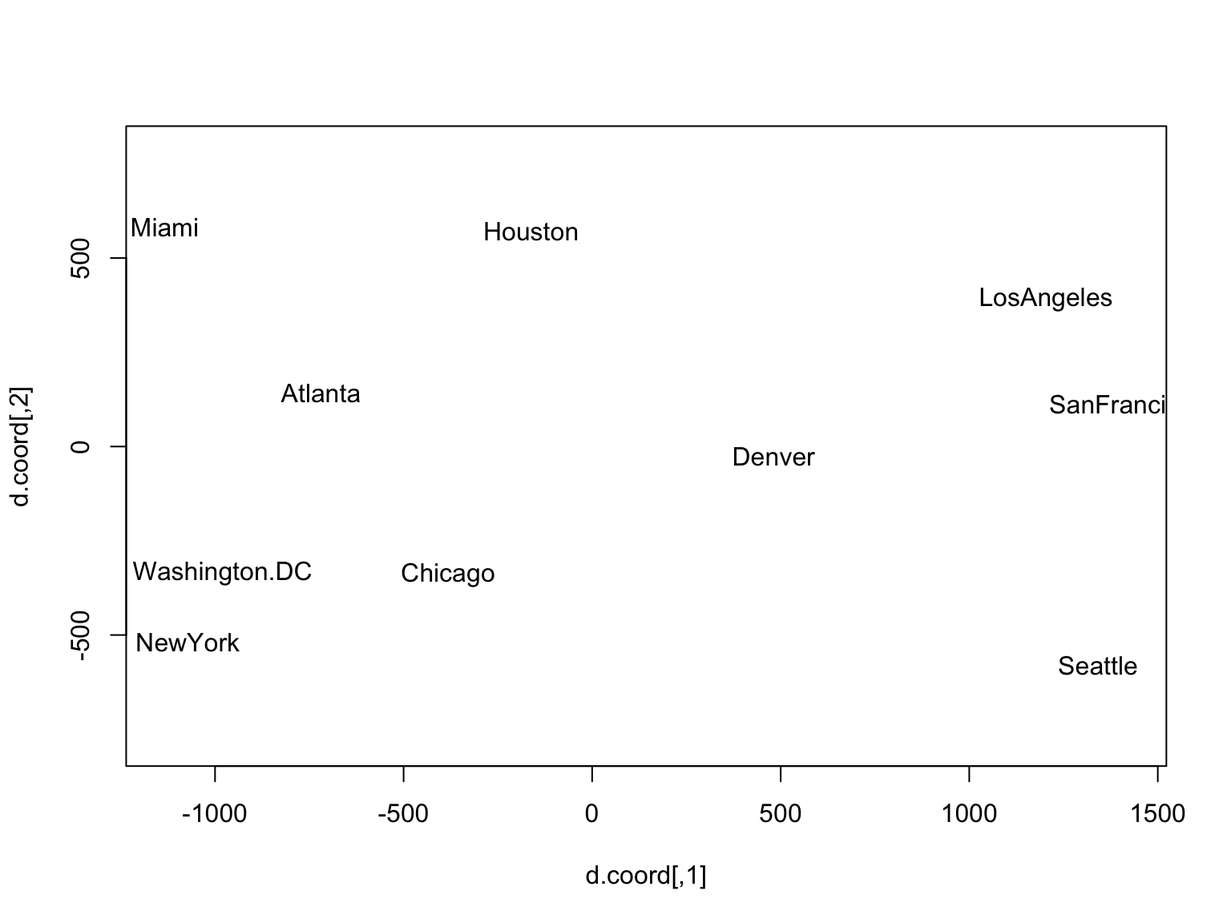
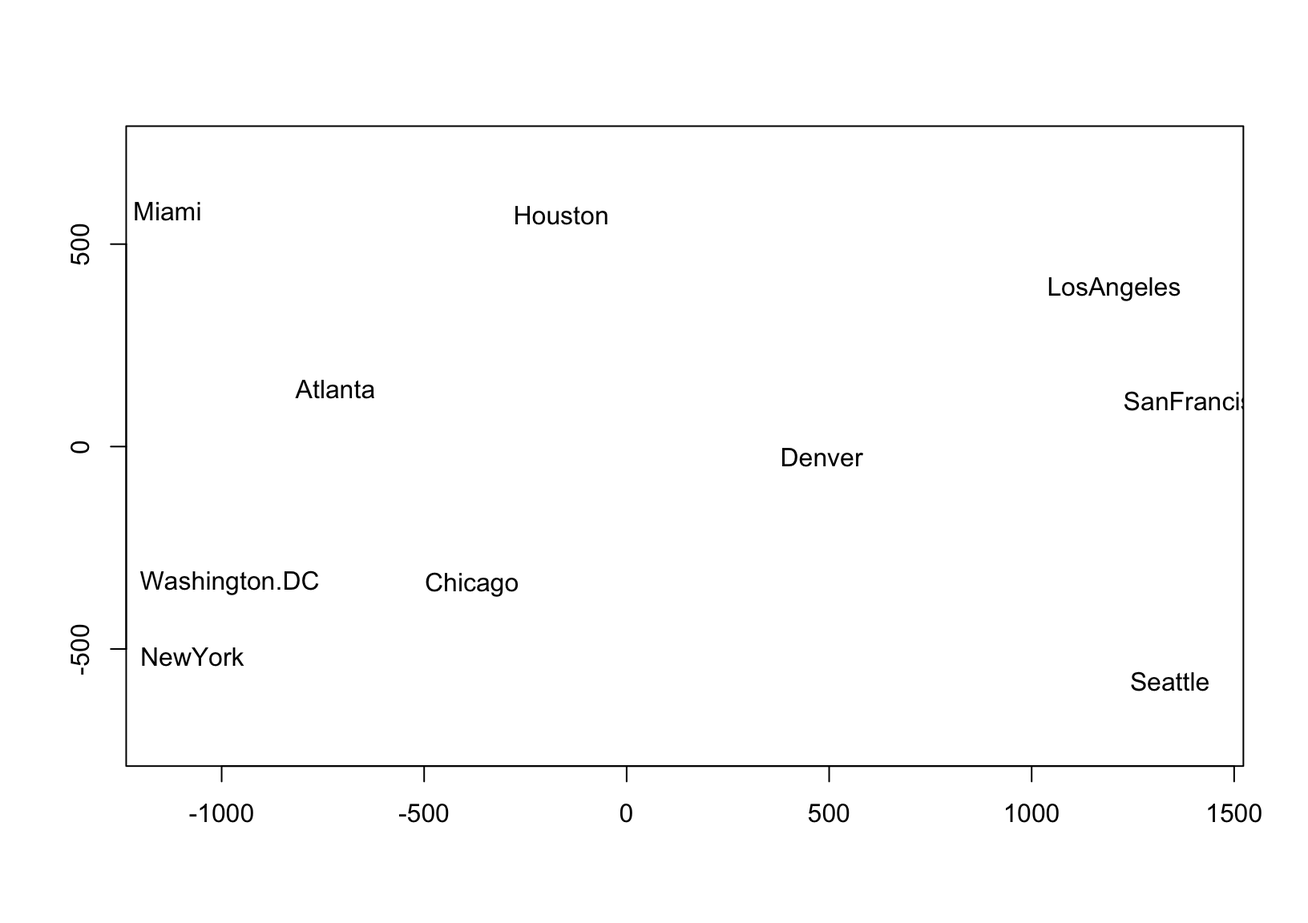
complete draft rank correlations post

diff --git a/content/post/2019-07-12-rank-correlations.html b/content/post/2019-07-12-rank-correlations.html
@@ -1,6 +1,6 @@
 ---
 draft: true
-title: multidimensional scaling and rank correlations
+title: multidimensional scaling of variables and rank correlations
 author: ~
 date: 2019-06-12
 slug: rank-correlations
@@ -46,8 +46,8 @@ plot(
   ylab = &quot;Case distances in two principal coordinates&quot;
 )</code></pre>
 <p><img src="/post/2019-07-12-rank-correlations_files/figure-html/case%20geometry-1.png" width="528" /></p>
-<p>Meanwhile, the geometry of the variables is usually understood through their covariances or correlations. The covariance between two variables <span class="math inline">\(i,j\)</span> is proportional to their inner product <span class="math display">\[\textstyle c_{ij}=\frac{1}{n}v_i\cdot v_j=\frac{1}{n}\lVert v_i\rVert\lVert v_j\rVert\cos\theta_{ij}\text,\]</span> so that the cosine the angle <span class="math inline">\(\theta_{ij}\)</span> between them equals their correlation:
-<span class="math display">\[\cos\theta_{ij}=\frac{c_{ij}}{\sqrt{c_{ii}c_{jj}}/n}=\frac{c_{ij}}{\sigma_i\sigma_j}=r_{ij}\]</span>
+<p>Meanwhile, the geometry of the variables is usually understood through their covariances or correlations. The covariance between two variables <span class="math inline">\(i,j\)</span> is proportional to their inner product <span class="math display">\[\textstyle \operatorname{cov}_{ij}=\frac{1}{n}v_i\cdot v_j=\frac{1}{n}\lVert v_i\rVert\lVert v_j\rVert\cos\theta_{ij}\text,\]</span> so that the cosine the angle <span class="math inline">\(\theta_{ij}\)</span> between them equals their correlation:
+<span class="math display">\[\cos\theta_{ij}=\frac{\operatorname{cov}_{ij}}{\sqrt{\operatorname{cov}_{ii}\operatorname{cov}_{jj}}/n}=\frac{\operatorname{cov}_{ij}}{\sigma_i\sigma_j}=r_{ij}\]</span>
 Here the cosines between the variable vectors in the first two PCA dimensions are plotted against their correlations across the original cases:</p>
 <pre class="r"><code># correlations between variables
 x.cor &lt;- cor(x)
@@ -64,20 +64,18 @@ plot(
   ylab = &quot;Cosines between variable vectors in two principal coordinates&quot;
 )</code></pre>
 <p><img src="/post/2019-07-12-rank-correlations_files/figure-html/variable%20geometry-1.png" width="528" /></p>
-<pre class="r"><code>warning(&quot;COVARIANCES&quot;)</code></pre>
-<pre><code>## Warning: COVARIANCES</code></pre>
-<div id="multidimensional-scaling-of-variables" class="section level3">
-<h3>multidimensional scaling of variables</h3>
-<p>The faithful approximation of inter-case distances by principal coordinates is the idea behind <a href="https://en.wikipedia.org/wiki/Multidimensional_scaling">(classical)</a> <em>multidimensional scaling</em>, which can be applied to a data set of distances <span class="math inline">\(\delta_{ij},\ 1\leq i,j\leq n\)</span> in the absence of coordinates. This technique is based on the eigendecomposition of a doubly-centered matrix of squared distances, which produces matrix <span class="math inline">\(UD^{1/2}\)</span> whose first <span class="math inline">\(r\)</span> coordinates—for any <span class="math inline">\(r\leq n\)</span>—recover a best approximation of the inter-case Euclidean distances in terms of the sum of squared errors, i.e. the variance of <span class="math inline">\((UD^{1/2})(UD^{1/2})^\top-\Delta=UDU^\top-\Delta\)</span>, where <span class="math inline">\(\Delta=(\delta_{ij})\in\mathbb{R}^{n\times n}\)</span>. In practice, the goal is usually to position points representing the <span class="math inline">\(n\)</span> cases in a 2-dimensional scatterplot so that their Euclidean distances <span class="math inline">\(\sqrt{(x_j-x_i)^2+(y_j-y_i)^2}\)</span> approximate their original distances <span class="math inline">\(\delta_{ij}\)</span>, as in this example using road distances to approximate geographic positions:</p>
+<div id="multidimensional-scaling-of-variables" class="section level2">
+<h2>multidimensional scaling of variables</h2>
+<p>The faithful approximation of inter-case distances by principal coordinates is the idea behind <a href="https://en.wikipedia.org/wiki/Multidimensional_scaling">(classical)</a> <em>multidimensional scaling</em> (MDS), which can be applied to a data set of distances <span class="math inline">\(\delta_{ij},\ 1\leq i,j\leq n\)</span> in the absence of coordinates. This technique is based on the eigendecomposition of a doubly-centered matrix of squared distances, which produces matrix <span class="math inline">\(UD^{1/2}\)</span> whose first <span class="math inline">\(r\)</span> coordinates—for any <span class="math inline">\(r\leq n\)</span>—recover a best approximation of the inter-case Euclidean distances in terms of the sum of squared errors, i.e. the variance of <span class="math inline">\((UD^{1/2})(UD^{1/2})^\top-\Delta=UDU^\top-\Delta\)</span>, where <span class="math inline">\(\Delta=(\delta_{ij})\in\mathbb{R}^{n\times n}\)</span>. In practice, the goal is usually to position points representing the <span class="math inline">\(n\)</span> cases in a 2-dimensional scatterplot so that their Euclidean distances <span class="math inline">\(\sqrt{(x_j-x_i)^2+(y_j-y_i)^2}\)</span> approximate their original distances <span class="math inline">\(\delta_{ij}\)</span>, as in this example using road distances to approximate geographic positions:</p>
 <pre class="r"><code>d &lt;- as.matrix(UScitiesD)
 cent &lt;- diag(1, nrow(d)) - matrix(1/nrow(d), nrow(d), nrow(d))
 d.cent &lt;- -.5 * cent %*% (d^2) %*% cent
 d.mds &lt;- svd(d.cent)
 d.coord &lt;- d.mds$u[, 1:2] %*% diag(sqrt(d.mds$d[1:2]))
-plot(d.coord, pch = NA, asp = 1)
+plot(d.coord, pch = NA, asp = 1, xlab = &quot;&quot;, ylab = &quot;&quot;)
 text(d.coord, labels = rownames(d))</code></pre>
-<p><img src="/post/2019-07-12-rank-correlations_files/figure-html/multidimensional%20scaling-1.png" width="768" /></p>
-<p>The faithful approximation of inter-variable covariances by the inner products of their principal-coordinate vectors suggests a complementary technique that i haven’t found explicitly discussed in my own background reading. Suppose we have data that is again coordinate-free but that consists this time not of distances between the cases but of covariances <span class="math inline">\(c_{ij},\ 1\leq i,j\leq m\)</span> between the variables. Had the original data been a <em>centered</em> case–variable matrix <span class="math inline">\(X\)</span>, then the covariances would been obtained as <span class="math inline">\(C=\frac{1}{n}X^\top X\)</span>, which is (up to scalar) the matrix whose eigenvectors would be given by <span class="math inline">\(V\)</span> in the SVD <span class="math inline">\(X=UDV^\top\)</span>. Therefore, we can fabricate coordinates for the <span class="math inline">\(m\)</span> variables that approximate what we know of their geometry—in this case, thinking of the variables as vectors, their magnitudes and the angles between them—via an eigendecomposition <span class="math inline">\(C=V\Lambda V^\top\)</span>: Take <span class="math inline">\(Y=V\Lambda^{1/2}\in\mathbb{R}^{m\times r}\)</span>, so that <span class="math inline">\(Y^\top Y=C\)</span>. We can also obtain coordinates in fewer dimensions that best recover the geometry using the first eigenvectors and -values.</p>
+<p><img src="/post/2019-07-12-rank-correlations_files/figure-html/multidimensional%20scaling-1.png" width="816" /></p>
+<p>The faithful approximation of inter-variable covariances by the inner products of their principal-coordinate vectors suggests a complementary technique that i haven’t found explicitly discussed in my own background reading. Suppose we have data that is again coordinate-free but that consists this time not of distances between the cases but of covariances <span class="math inline">\(\operatorname{cov}_{ij},\ 1\leq i,j\leq m\)</span> between the variables. Had the original data been a <em>centered</em> case–variable matrix <span class="math inline">\(X\)</span>, then the covariance matrix <span class="math inline">\(C=(\operatorname{cov}_{ij})\)</span> would been obtained as <span class="math inline">\(C=\frac{1}{n}X^\top X\)</span>, which is (up to scalar) the matrix whose eigenvectors would be given by <span class="math inline">\(V\)</span> in the SVD <span class="math inline">\(X=UDV^\top\)</span>. Therefore, we can fabricate coordinates for the <span class="math inline">\(m\)</span> variables that approximate what we know of their geometry—in this case, thinking of the variables as vectors, their magnitudes and the angles between them—via an eigendecomposition <span class="math inline">\(C=V\Lambda V^\top\)</span>: Take <span class="math inline">\(Y=V\Lambda^{1/2}\in\mathbb{R}^{m\times r}\)</span>, so that <span class="math inline">\(Y^\top Y=C\)</span>. We can also obtain coordinates in fewer dimensions that best recover the geometry using the first eigenvectors and -values.</p>
 <p>I’ll validate this line of reasoning by taking the <code>mtcars</code> data set for a spin:</p>
 <pre class="r"><code># covariances and standard deviations
 c &lt;- cov(mtcars)
@@ -95,11 +93,12 @@ all.equal(
   tolerance = 1e-12
 )</code></pre>
 <pre><code>## [1] TRUE</code></pre>
-<p>The use case for this technique is a situation in which covariance data exist without variable values. This may of course be the case because original data has become unavailable; but a more interesting setting that gives rise to this situation is the analysis of multiple rankings of the same set of objects in terms of their <em>concordance</em>. Rankings’ concordance is often measured using rank correlations such as Kendall’s tau, which may be <em>general correlation coefficients</em> in <a href="https://en.wikipedia.org/wiki/Rank_correlation#General_correlation_coefficient">the sense proposed by Kendall</a> but are not associated with an underlying (Euclidean) geometry. Nevertheless, we can use multidimensional scaling to represent these rankings as unit vectors in Euclidean space whose pairwise cosines approximate their rank correlations!</p>
+<p>Thus, whereas <em>MDS of cases</em> is used to represent distances, <em>MDS of variables</em> can be used to represent covariances.
+The use case for this technique is a situation in which covariance data exist without variable values. This may of course be the case because original data has become unavailable; but a more interesting setting that gives rise to this situation is the analysis of multiple rankings of the same set of objects in terms of their <em>concordance</em>. Rankings’ concordance is often measured using rank correlations such as Kendall’s tau, which may be <em>general correlation coefficients</em> in <a href="https://en.wikipedia.org/wiki/Rank_correlation#General_correlation_coefficient">the sense proposed by Kendall</a> but are not associated with an underlying (Euclidean) geometry. Nevertheless, we can use MDS to represent these rankings as unit vectors in Euclidean space whose pairwise cosines approximate their rank correlations!</p>
 </div>
-<div id="rankings-of-universities" class="section level3">
-<h3>rankings of universities</h3>
-<p>A real-world example is provided by the <a href="https://www.topuniversities.com/qs-world-university-rankings/methodology">Quacquarelli Symonds Top University Rankings</a>, which include rankings of hundreds of world universities along six dimensions: academic reputation, employer reputation, faculty–student ratio, citations per faculty, international faculty ratio, and international student ratio. QS weight these rankings differently in their overall assessment, but our analysis will compare the rankings to each other, so these weights are ignored. I restricted the data from the year 2020 to universities in the United States for which integer rankings (i.e. not “400+” placeholders) were available in all four years:<a href="#fn2" class="footnote-ref" id="fnref2"><sup>2</sup></a></p>
+<div id="example-rankings-of-universities" class="section level2">
+<h2>example: rankings of universities</h2>
+<p>A real-world example is provided by the <a href="https://www.topuniversities.com/qs-world-university-rankings/methodology">Quacquarelli Symonds Top University Rankings</a>, which include rankings of hundreds of world universities on six “metrics”: academic reputation, employer reputation, faculty–student ratio, citations per faculty, international faculty ratio, and international student ratio. QS weight these rankings differently in their overall assessment, but our analysis will compare the rankings to each other, so these weights are ignored. I restricted the data from the year 2020 to universities in the United States for which integer rankings (i.e. not “400+” placeholders) were available in all four years:<a href="#fn2" class="footnote-ref" id="fnref2"><sup>2</sup></a></p>
 <pre class="r"><code>qswurus20 &lt;- readRDS(here::here(&quot;sandbox/qswurus20.rds&quot;))
 head(qswurus20)</code></pre>
 <pre><code>##   year                                  institution size focus res age
@@ -126,58 +125,112 @@ head(qswurus20)</code></pre>
 <p>Since the integer rankings were taken from the full data set, they are not contiguous (i.e. some integers between rankings never appear). To resolve this, i’ll recalibrate the rankings by matching each vector of ranks to the vector of its sorted unique values:</p>
 <pre class="r"><code>library(dplyr)
 qswurus20 %&gt;%
-  group_by(year) %&gt;%
+  select(institution, starts_with(&quot;rk_&quot;)) %&gt;%
   mutate_at(
     vars(starts_with(&quot;rk_&quot;)),
     ~ match(., sort(unique(as.numeric(.))))
   ) %&gt;%
-  ungroup() %&gt;%
   print() -&gt; qswurus20</code></pre>
-<pre><code>## # A tibble: 38 x 13
-##     year institution size  focus res     age status rk_academic rk_employer
-##    &lt;int&gt; &lt;chr&gt;       &lt;chr&gt; &lt;chr&gt; &lt;chr&gt; &lt;dbl&gt; &lt;chr&gt;        &lt;int&gt;       &lt;int&gt;
-##  1  2020 MASSACHUSE… M     CO    VH        5 B                3           2
-##  2  2020 STANFORD U… L     FC    VH        5 B                2           3
-##  3  2020 HARVARD UN… L     FC    VH        5 B                1           1
-##  4  2020 CALIFORNIA… S     CO    VH        5 B               12          14
-##  5  2020 UNIVERSITY… L     FC    VH        5 B                9          11
-##  6  2020 PRINCETON … M     CO    VH        5 B                7           7
-##  7  2020 CORNELL UN… L     FC    VH        5 B               11          13
-##  8  2020 UNIVERSITY… L     FC    VH        5 B               14          12
-##  9  2020 YALE UNIVE… L     FC    VH        5 B                6           4
-## 10  2020 COLUMBIA U… L     FC    VH        5 B                8           8
-## # … with 28 more rows, and 4 more variables: rk_ratio &lt;int&gt;,
-## #   rk_citations &lt;int&gt;, rk_intl_faculty &lt;int&gt;, rk_intl_students &lt;int&gt;</code></pre>
-<p>This subset of universities is now ranked in a consistent way along the six dimensions described above. The Kendall correlation <span class="math inline">\(\kappa_{ij}\)</span> between two rankings measures their concordance. To calculate it, every pair of universities contributes either <span class="math inline">\(+1\)</span> or <span class="math inline">\(-1\)</span> according as the rankings <span class="math inline">\(i\)</span> and <span class="math inline">\(j\)</span> agree or disagree for that pair, and the sum is scaled down by the number of pairs <span class="math inline">\({n\choose 2}\)</span> so that the result lies between <span class="math inline">\(-1\)</span> and <span class="math inline">\(1\)</span>. We interpret <span class="math inline">\(\kappa_{ij}=1\)</span> as perfect concordance, <span class="math inline">\(\kappa_{ij}=-1\)</span> as perfect discordance (the rankings reverse each other), and <span class="math inline">\(\kappa_{ij}=0\)</span> as independence (the rankings are unrelated to each other).</p>
-<p>Since the QS rankings are not variations on a common theme, like different traditional measures of quality, i don’t have any strong expectation of how concordant they’ll be. A common way to visualize correlation matrices is the heatmap, so i’ll use that technique first:</p>
+<pre><code>## # A tibble: 38 x 7
+##    institution rk_academic rk_employer rk_ratio rk_citations
+##    &lt;chr&gt;             &lt;int&gt;       &lt;int&gt;    &lt;int&gt;        &lt;int&gt;
+##  1 MASSACHUSE…           3           2        6            3
+##  2 STANFORD U…           2           3        4            5
+##  3 HARVARD UN…           1           1       11            4
+##  4 CALIFORNIA…          12          14        1            2
+##  5 UNIVERSITY…           9          11       13           12
+##  6 PRINCETON …           7           7       18            1
+##  7 CORNELL UN…          11          13       22            7
+##  8 UNIVERSITY…          14          12        8           17
+##  9 YALE UNIVE…           6           4        2           24
+## 10 COLUMBIA U…           8           8        7           25
+## # … with 28 more rows, and 2 more variables: rk_intl_faculty &lt;int&gt;,
+## #   rk_intl_students &lt;int&gt;</code></pre>
+<p>This subset of universities is now ranked in a consistent way along the six dimensions described above. The Kendall correlation <span class="math inline">\(\kappa_{ij}\)</span> between two rankings measures their concordance. To calculate it, every pair of universities contributes either <span class="math inline">\(+1\)</span> or <span class="math inline">\(-1\)</span> according as the rankings <span class="math inline">\(i\)</span> and <span class="math inline">\(j\)</span> place that pair in the same order, and the sum is scaled down by the number of pairs <span class="math inline">\({n\choose 2}\)</span> so that the result lies between <span class="math inline">\(-1\)</span> and <span class="math inline">\(1\)</span>. We interpret <span class="math inline">\(\kappa_{ij}=1\)</span> as perfect concordance (the rankings are equivalent), <span class="math inline">\(\kappa_{ij}=-1\)</span> as perfect discordance (the rankings are reversed), and <span class="math inline">\(\kappa_{ij}=0\)</span> as independence (the rankings are unrelated).</p>
+<p>The QS rankings are not variations on a theme, like different measures of guideline adherence or positive affect, but they do all seem potentially sensitive to a universities resources, including funding and prestige. I would intuit that the two reputational metrics should be positively correlated, and that the two international ratios should be as well. I also wonder if the faculty–student ratio might be anti-correlated with the number of citations per faculty, separating research institutions from more teaching-focused ones.</p>
+<div id="correlation-heatmap" class="section level3">
+<h3>correlation heatmap</h3>
+<p>A common way to visualize correlation matrices is the heatmap, so i’ll use that technique first: While the rankings by academic and employer reputations are highly concordant, those by international faculty and student ratios are not less so; and, while the faculty–student ratio and faculty citation rankings are positively correlated, the relationship is the weakest of all.</p>
 <pre class="r"><code>c &lt;- cor(select(qswurus20, starts_with(&quot;rk_&quot;)), method = &quot;kendall&quot;)
 corrplot::corrplot(c)</code></pre>
 <p><img src="/post/2019-07-12-rank-correlations_files/figure-html/Kendall%20rank%20correlations-1.png" width="672" /></p>
+<p>This visualization is useful, but it’s very busy: To compare any pair of rankings, i have to find the cell in the grid corresponding to that pair and refer back to the color scale to assess its meaning. I can’t rely on the nearby cells for context, because they may be stronger or weaker than average and skew my interpretation. For example, the visibly weak associations between the faculty–student ratio and other rankings happen to be arranged so that the slightly stronger among them, with the two reputational variables, are sandwiched between the <em>even stronger</em> associations between the two reputational rankings and between them and the faculty citations ranking; whereas its weaker associations are sandwiched between more typical, but still comparatively stronger, associations. A different ordering of the variables might “obscure” this pattern and “reveal” others.</p>
+<p>The plot is also strictly pairwise: Every correlation between two rankings occupies its own cell—two, in fact, making almost half of the plot duplicative. This means that a subset analysis of, say, three rankings requires focusing on three cells at the corners of a right triangle while ignoring all the surrounding cells. This is not an easy visual task. It would be straightforward to create a new plot for any subset, but then the larger context of the remaining rankings would be lost.</p>
+</div>
+<div id="correlation-biplot" class="section level3">
+<h3>correlation biplot</h3>
+<p>The MDS technique offers a natural alternative visualization: the biplot. As with classical MDS, the point isn’t to overlay the case scores and variable loadings from a singular value decomposition, but to use the scores or loadings alone to endow the cases or variables with a Euclidean geometry they didn’t yet have. To that end, i’ll plot the variables as vectors with tails at the origin and heads at their fabricated coordinates <span class="math inline">\(Y=V\Lambda^{1/2}\)</span>:</p>
 <pre class="r"><code>c.eigen &lt;- eigen(c)
 c.coord &lt;- c.eigen$vectors %*% diag(sqrt(c.eigen$values))
-plot(c.coord, pch = NA, asp = 1)
+plot(c.coord, pch = NA, asp = 1, xlab = &quot;&quot;, ylab = &quot;&quot;)
 arrows(0, 0, c.coord[, 1], c.coord[, 2])
 text(c.coord, labels = rownames(c))</code></pre>
 <p><img src="/post/2019-07-12-rank-correlations_files/figure-html/multidimensional%20scaling%20of%20variables-1.png" width="672" /></p>
+<p>A more elegant ggplot2-style graphic can be rendered with <a href="https://github.com/corybrunson/ordr">ordr</a>:</p>
 <pre class="r"><code>library(ordr)
 eigen_ord(c) %&gt;%
   as_tbl_ord() %&gt;%
   augment() %&gt;%
   mutate_v(metric = stringr::str_remove(.name, &quot;rk_&quot;)) %&gt;%
-  confer_inertia(.5) %&gt;%
+  confer_inertia(c(0, 1)) %&gt;%
+  negate_to_nonneg_orthant(&quot;v&quot;) -&gt;
+  c_eigen
+c_eigen %&gt;%
   ggbiplot() +
-  geom_unit_circle(linetype = &quot;dashed&quot;) +
+  theme_minimal() +
+  geom_unit_circle() +
   geom_v_vector() +
   geom_v_text_radiate(aes(label = metric)) +
   scale_x_continuous(expand = expand_scale(add = .4)) +
   scale_y_continuous(expand = expand_scale(add = .2)) +
   ggtitle(&quot;MDS of Kendall correlations between university rankings&quot;)</code></pre>
 <p><img src="/post/2019-07-12-rank-correlations_files/figure-html/unnamed-chunk-1-1.png" width="672" /></p>
+<p>With respect to the pairwise correlations, the biplot is significantly less precise: Though the vectors all have unit length in <span class="math inline">\(\mathbb{R}^r\)</span> (<span class="math inline">\(r\leq m=6\)</span>), their projections onto the first two principal coordinates are clearly much shorter, indicating that much of the geometric configuration requires additional dimensions to represent. Indeed, these coordinates capture only <span class="math inline">\(48.2\%+14.3\%=62.5\%\)</span> of the inertia in the full representation. This means that the angles between the vectors must be interpreted with caution: For example, it looks like the academic and employer reputation rankings are extremely correlated, but in principle the apparent alignment of the vectors could be due to the projection, when in fact they “rise” and “fall” in opposite directions along the remaining dimensions. The correlation heatmap leaves no such ambiguity.</p>
+<p>However, the biplot far surpasses the heatmap in on parsimony: Each variable is represented by a single vector, and the angles between the variable vectors roughly approximate their correlations. For instance, the rankings based on international student and faculty ratios have correlation around <span class="math inline">\(\frac{1}{\sqrt{2}}\)</span>, corresponding to either explaining half the “variance” in the other—not technically meaningful in the ranking context but a useful conceptual anchor. Meanwhile, the faculty–student ratio ranking is nearly independent of the faculty citation ranking, contrary to my intuition that these rankings would reflect a <em>reverse</em> association between research- and teaching-oriented institutions. The convenience of recognizing correlations as cosines may be worth the significant risk of error, especially when that error (the residual <span class="math inline">\(37.5\%\)</span> of inertia) can be exactly quantified.</p>
+<p>Moreover, the principal coordinates of the variable vectors indicate their loadings onto the first and second principal moments of inertia—the two dimensions that capture the most variation in the data. For example, the first principal coordinate is most aligned with the two reputational rankings, suggesting that a general prestige ranking is the strongest overall component of the several specific rankings. In contrast, the faculty–student ratio and faculty citation rankings load most strongly onto the second principal coordinate, suggesting that the divide between research- and teaching-focused institutions may yet be important to understanding how universities compare along these different metrics. These observations, provisional though they are, would be difficult to discern from the heatmap. More importantly, unlike the secondary patterns visible in the heatmap, these are in no sense artifacts of the layout but arise directly from the analysis.</p>
+<p>This last point means that observations made from a biplot can be validated from the MDS coordinates. In particular, we can examine the variables’ loadings onto the third principal coordinate, and we can check whether the reputational rankings are aligned or misaligned along it.</p>
+<pre class="r"><code>c_eigen %&gt;%
+  tidy(.matrix = &quot;v&quot;) %&gt;%
+  select(-.name, -.matrix)</code></pre>
+<pre><code>## # A tibble: 6 x 7
+##     EV1     EV2     EV3     EV4     EV5      EV6 metric       
+##   &lt;dbl&gt;   &lt;dbl&gt;   &lt;dbl&gt;   &lt;dbl&gt;   &lt;dbl&gt;    &lt;dbl&gt; &lt;chr&gt;        
+## 1 0.834 -0.0907 -0.412   0.0430  0.0206 -0.351   academic     
+## 2 0.795 -0.0964 -0.477  -0.0416  0.181   0.311   employer     
+## 3 0.517  0.771   0.0480  0.331  -0.158   0.0372  ratio        
+## 4 0.731 -0.352   0.239  -0.0278 -0.528   0.0685  citations    
+## 5 0.631 -0.233   0.521   0.392   0.352  -0.00783 intl_faculty 
+## 6 0.603  0.262   0.324  -0.665   0.140  -0.0312  intl_students</code></pre>
+<pre class="r"><code>c_eigen %&gt;%
+  tidy(.matrix = &quot;coord&quot;)</code></pre>
+<pre><code>## # A tibble: 6 x 4
+##   .name .values .inertia .prop_var
+##   &lt;fct&gt;   &lt;dbl&gt;    &lt;dbl&gt;     &lt;dbl&gt;
+## 1 EV1     2.89     2.89     0.482 
+## 2 EV2     0.858    0.858    0.143 
+## 3 EV3     0.833    0.833    0.139 
+## 4 EV4     0.709    0.709    0.118 
+## 5 EV5     0.480    0.480    0.0799
+## 6 EV6     0.227    0.227    0.0379</code></pre>
+<p>Based on the coordinates, the reputational rankings are aligned, as we knew already from the correlation matrix and heatmap. What’s a bit more interesting is that this component seems to separate these two rankings from those having to do with faculty citation rates and the international compositions of the faculty and student body. Based on the decomposition of inertia, this third principal coordinate is nearly as important as the second! It therefore makes sense to plot the two together:</p>
+<pre class="r"><code>c_eigen %&gt;%
+  ggbiplot(aes(x = 2, y = 3)) +
+  theme_minimal() +
+  geom_unit_circle() +
+  geom_v_vector() +
+  geom_v_text_radiate(aes(label = metric)) +
+  scale_x_continuous(expand = expand_scale(add = .4)) +
+  scale_y_continuous(expand = expand_scale(add = .4)) +
+  ggtitle(&quot;MDS of Kendall correlations between university rankings&quot;,
+          &quot;Second and third principal coordinates&quot;)</code></pre>
+<p><img src="/post/2019-07-12-rank-correlations_files/figure-html/unnamed-chunk-3-1.png" width="672" /></p>
+<p>The primary antitheses of the reputational rankings, after removing the first principal coordinate, are the rankings based on international composition, and this axis is largely independent of the axis apparently distinguishing research- from teaching-oriented institutions. From my own limited knowledge, i’d hazard a guess that this reflects two tiers of international representation among students and faculty, one expressed by the most prestigious institutions to which highly qualified students apply from all over the world, and the other expressed by institutions that are not especially prestigious but are located in communities or regions with a high percentage of international residents. This is of course no more than idle speculation on my part! But a visualization scheme that encourages hypothesis generation is worth having on hand.</p>
+</div>
 </div>
 <div class="footnotes">
 <hr />
 <ol>
-<li id="fn1"><p>That is to say, if the variables don’t have meaningful zero values and/or commensurate scales, then they should probably be centered to zero mean and/or scaled to unit variance.<a href="#fnref1" class="footnote-back">↩</a></p></li>
+<li id="fn1"><p>That is to say, if the variables don’t have meaningful zero values and/or commensurate scales, then they should be centered to zero mean and/or scaled to unit variance.<a href="#fnref1" class="footnote-back">↩</a></p></li>
 <li id="fn2"><p>This leaves us with only 38 universities!<a href="#fnref2" class="footnote-back">↩</a></p></li>
 </ol>
 </div>
